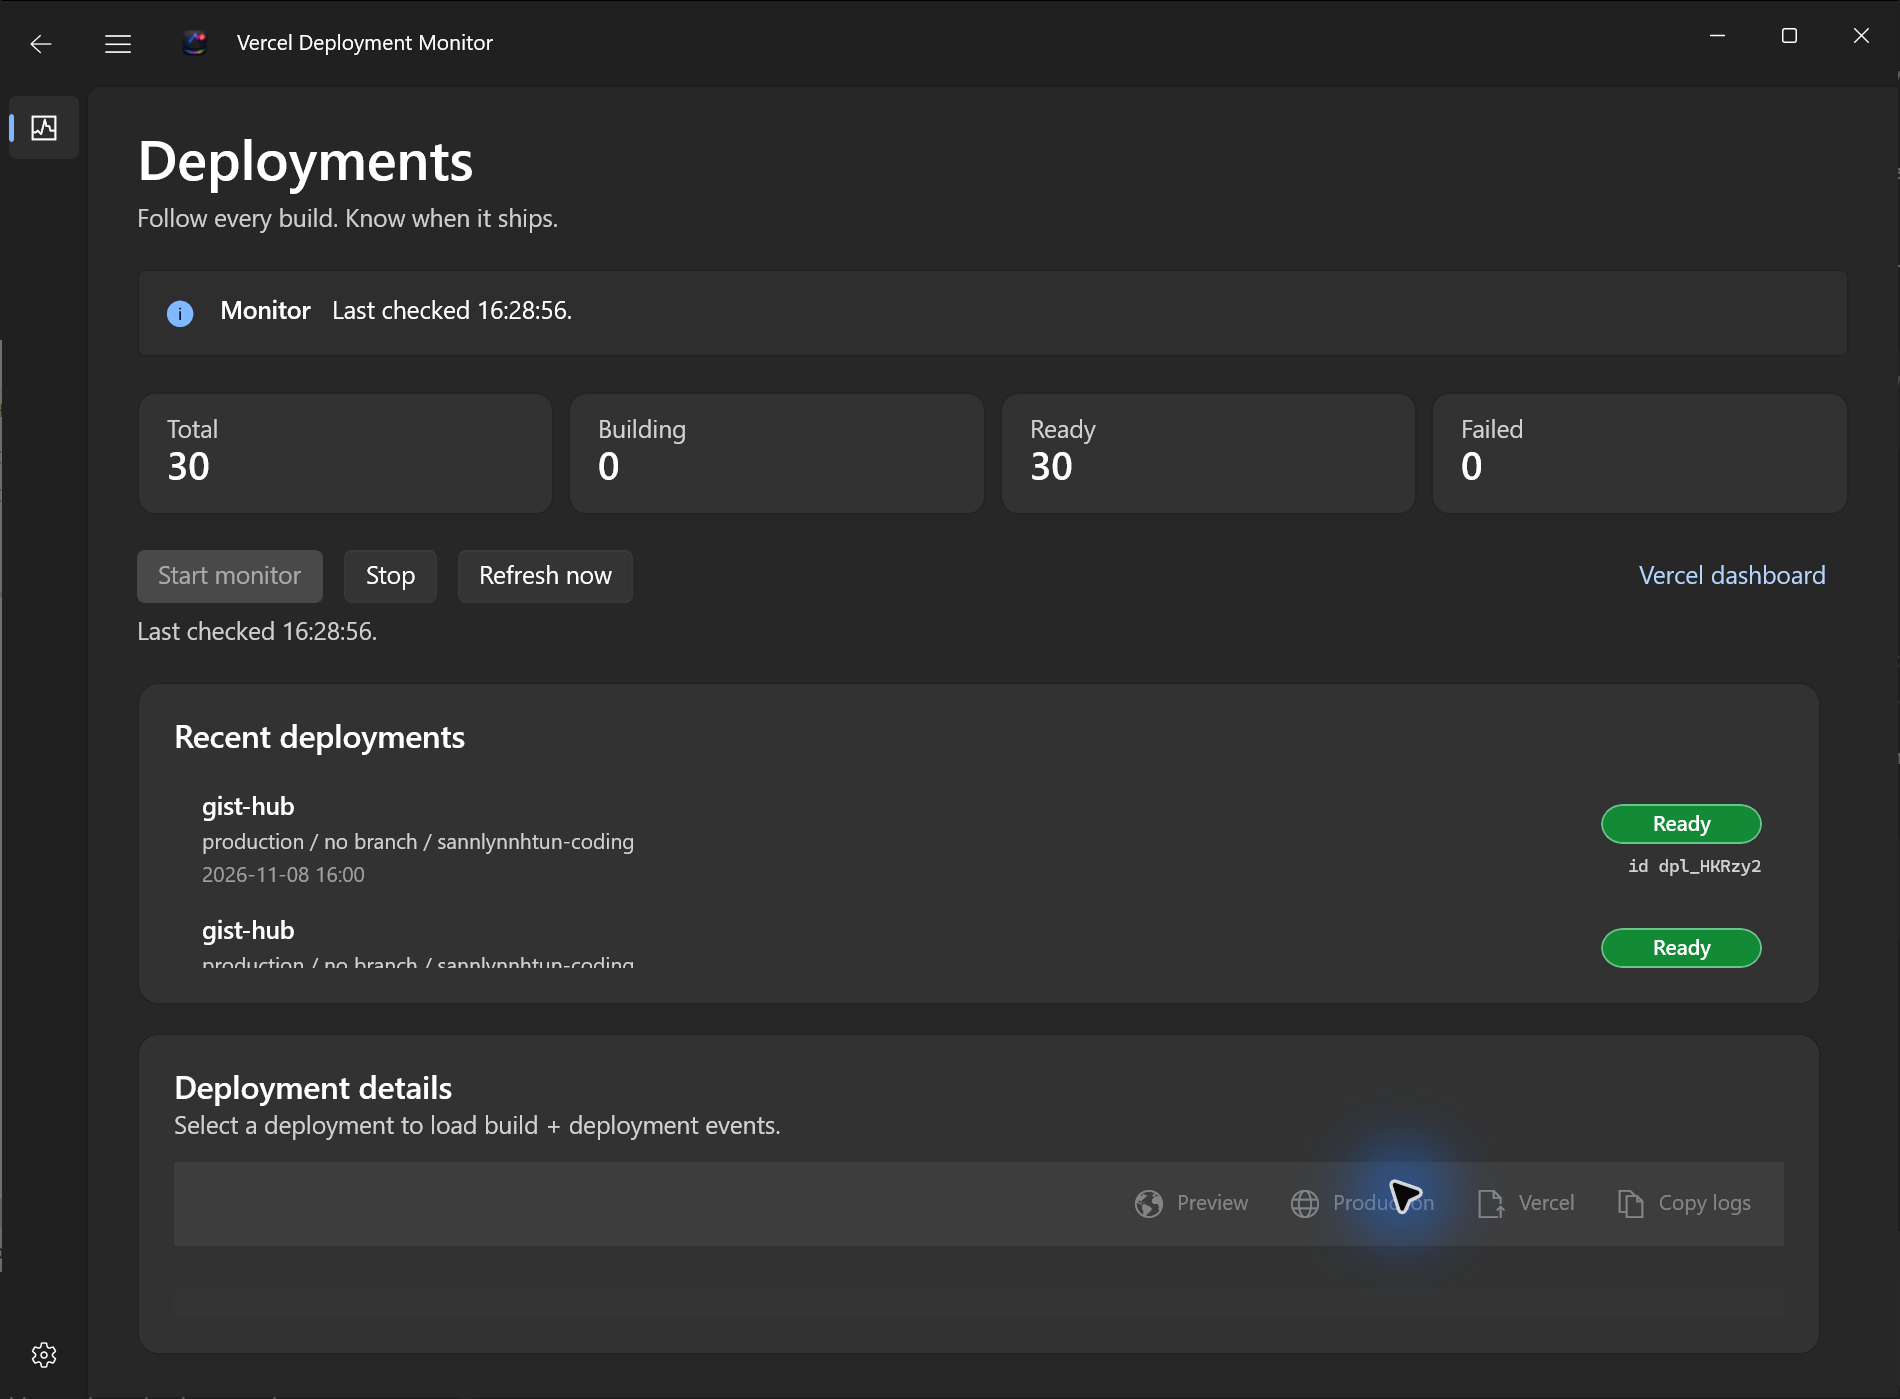
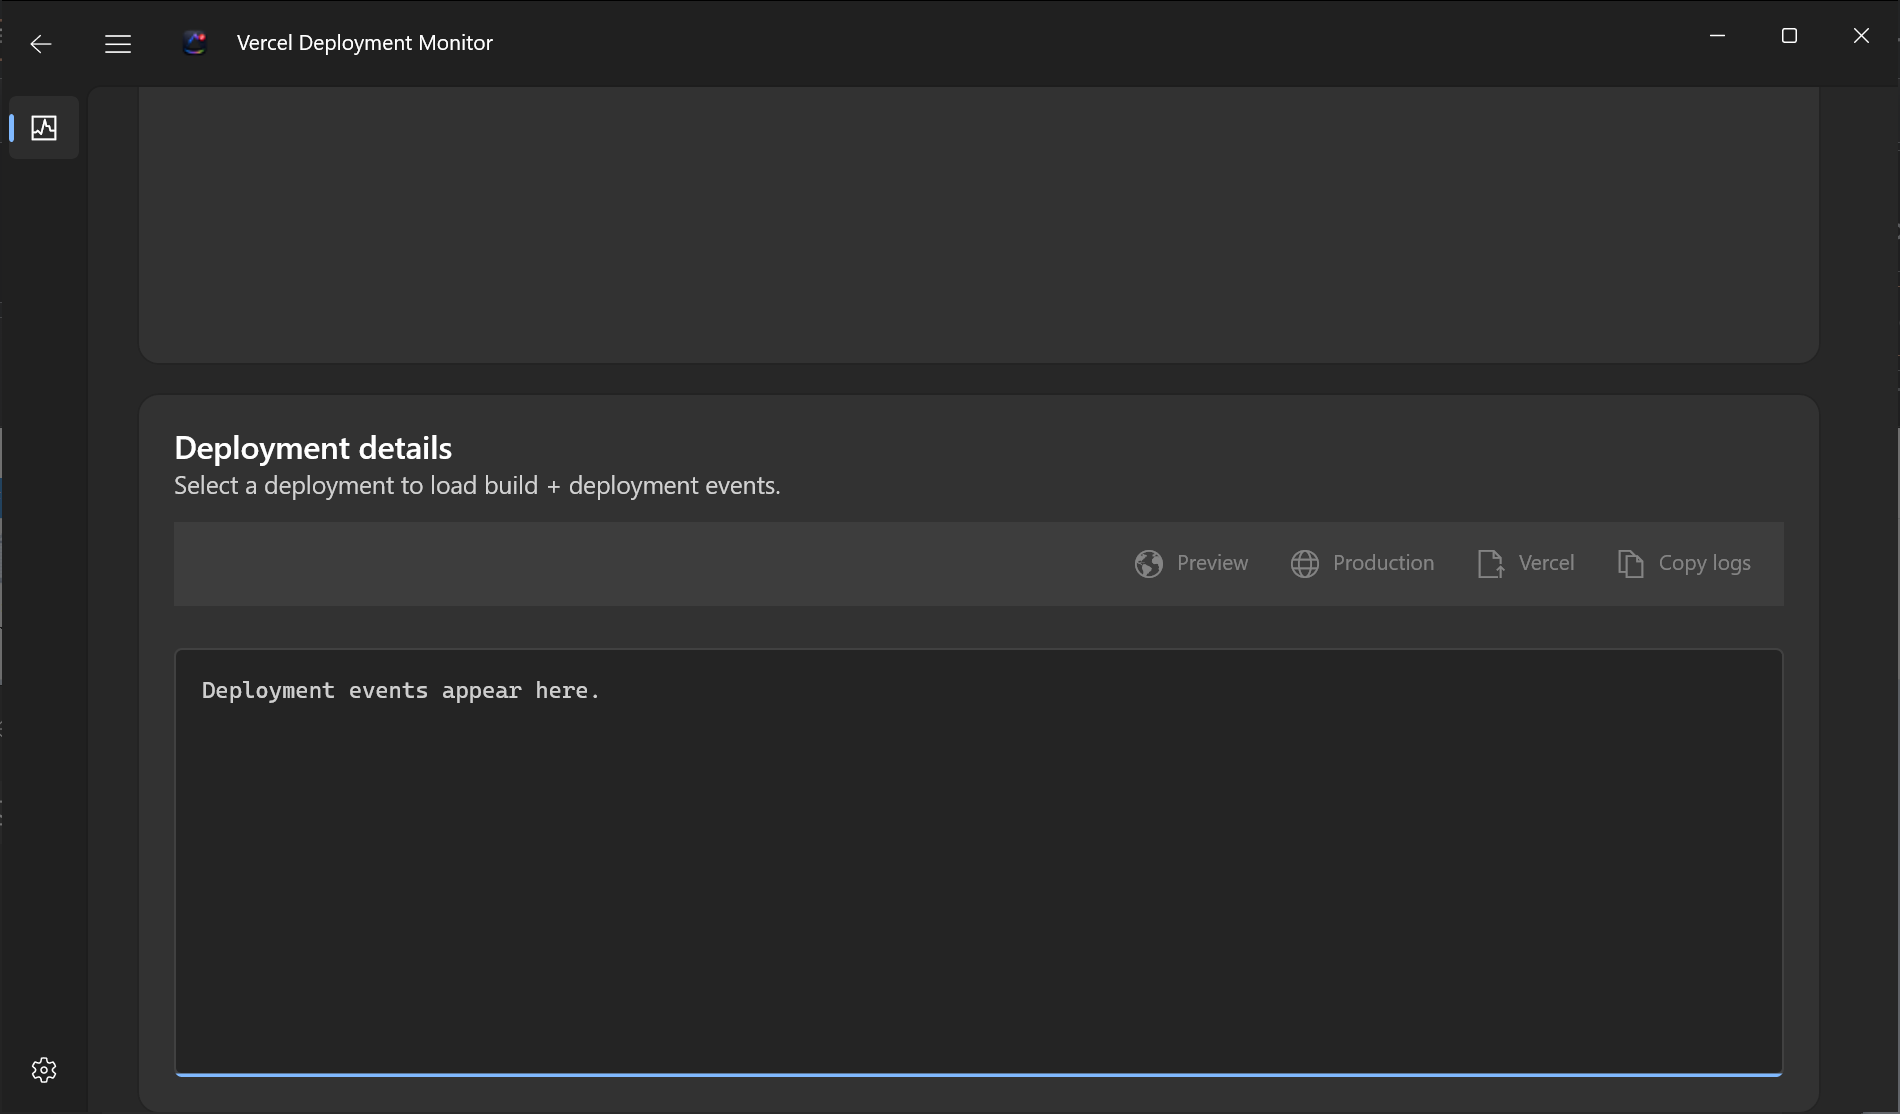
docs: refresh scrollable stacked dashboard screenshot

diff --git a/README.md b/README.md
@@ -27,9 +27,9 @@ Deployment totals, recent deployments, and the details pane displayed side by si
 
 ### Stacked dashboard
 
-The same dashboard in a smaller window, with deployment details below the deployment list. Shorter windows leave less vertical space for each pane.
+The same dashboard in a smaller window, with deployment details below the deployment list. The page scrolls vertically, keeping both panes at a usable height; the deployment list and logs also scroll independently. This capture is scrolled to the expanded log pane, with the deployment list above it.
 
-![Windowed deployment dashboard with the deployment list and details stacked vertically](docs/screenshots/deployments-stacked.png)
+![Scrollable stacked dashboard showing the expanded log pane below the deployment list](docs/screenshots/deployments-stacked.png)
 
 ### Settings
 
